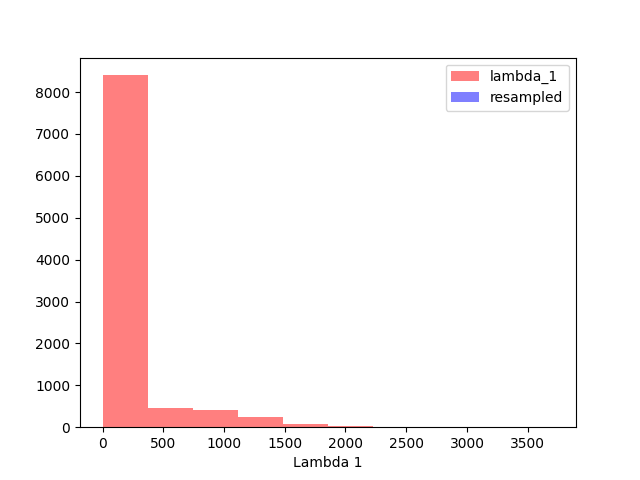
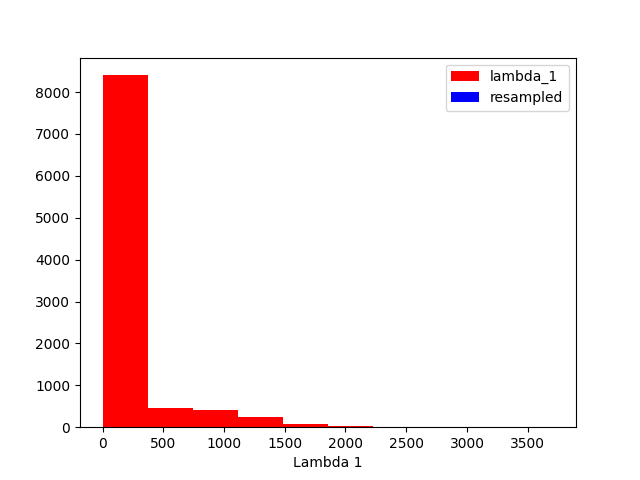
Method 1-2 lambda reflection test6

Changed region(s): [[0.1562, 0.1562, 0.5312, 0.9062], [0.6875, 0.125, 0.75, 0.2188]]

diff --git a/year3/lastStretch/lambdaReflectionStudy/reflectionTests.py b/year3/lastStretch/lambdaReflectionStudy/reflectionTests.py
@@ -29,8 +29,8 @@ resampledLambda1 = new_margPostData[:,0]
 plt.clf()
 #plt.hist(lambda_1,density=True,color='red',alpha=0.25,label="lambda_1")
 #plt.hist(resampledLambda1,density=True,color='blue',alpha=0.25,label="resampled")
-plt.hist(lambda_1,color='red',alpha=0.5,label="lambda_1")
-plt.hist(resampledLambda1,color='blue',alpha=0.5,label="resampled")
+plt.hist(lambda_1,color='red',label="lambda_1")
+plt.hist(resampledLambda1,color='blue',label="resampled")
 plt.legend()
 plt.xlabel("Lambda 1")
 plt.savefig("method12.png")
